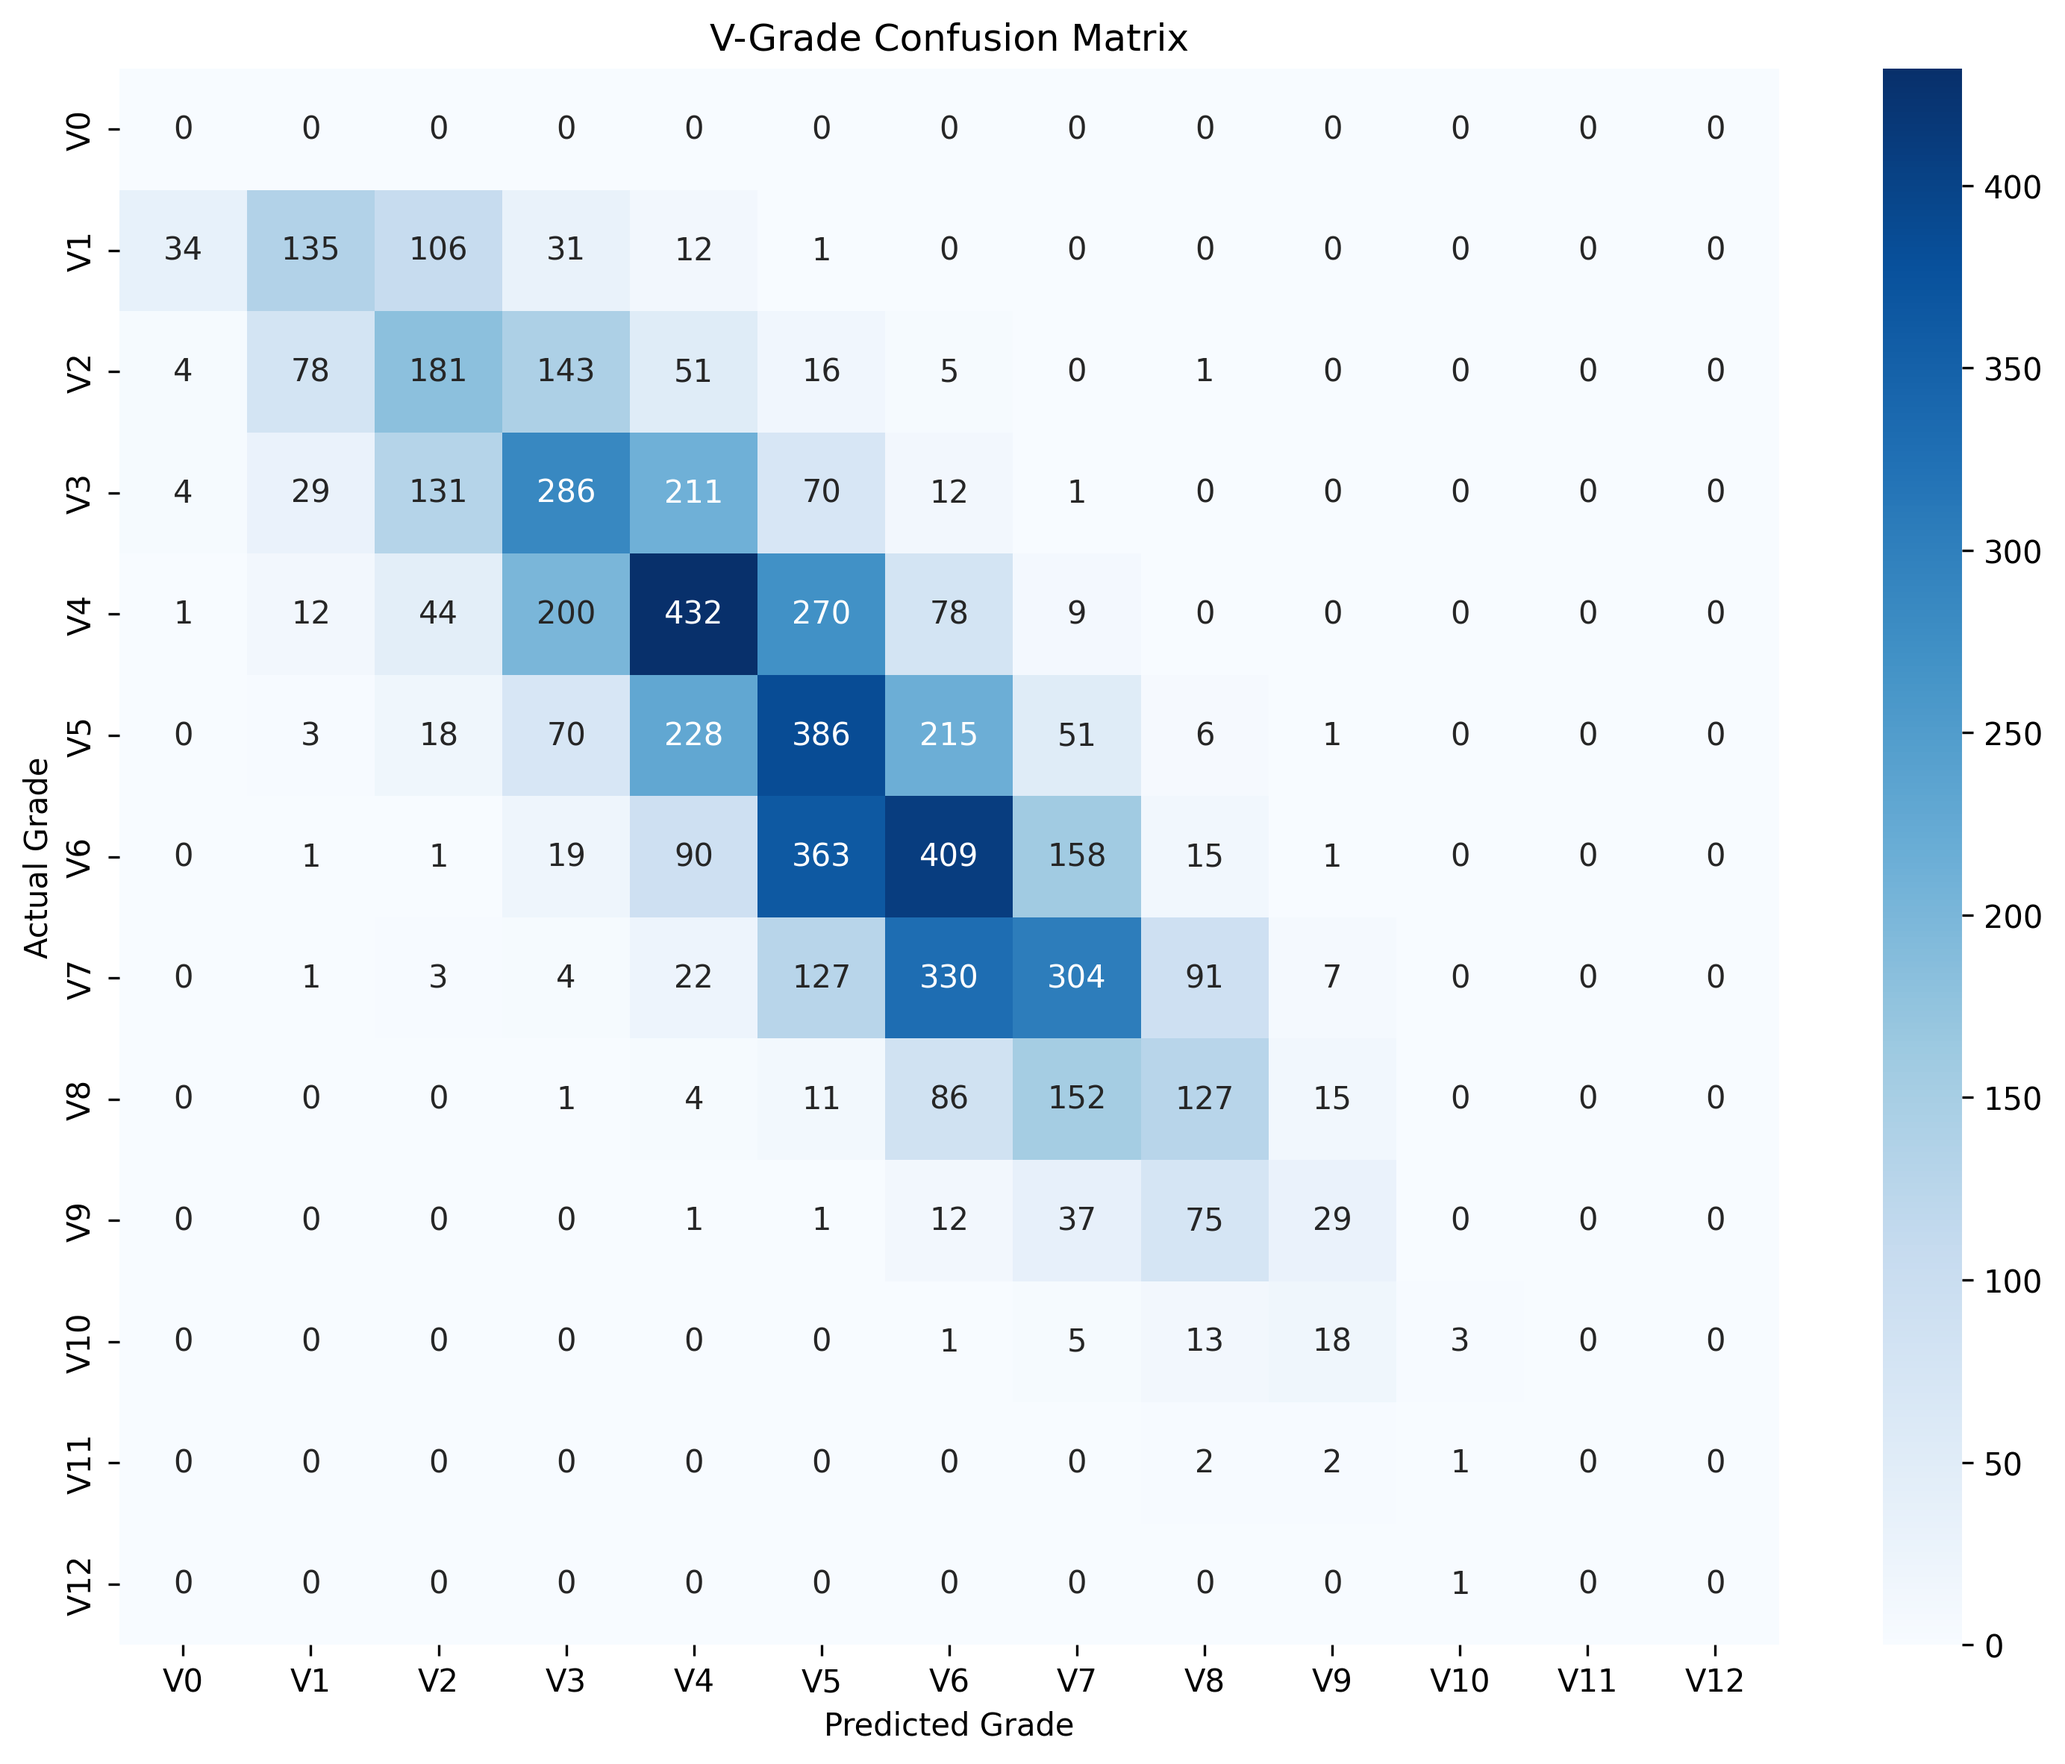
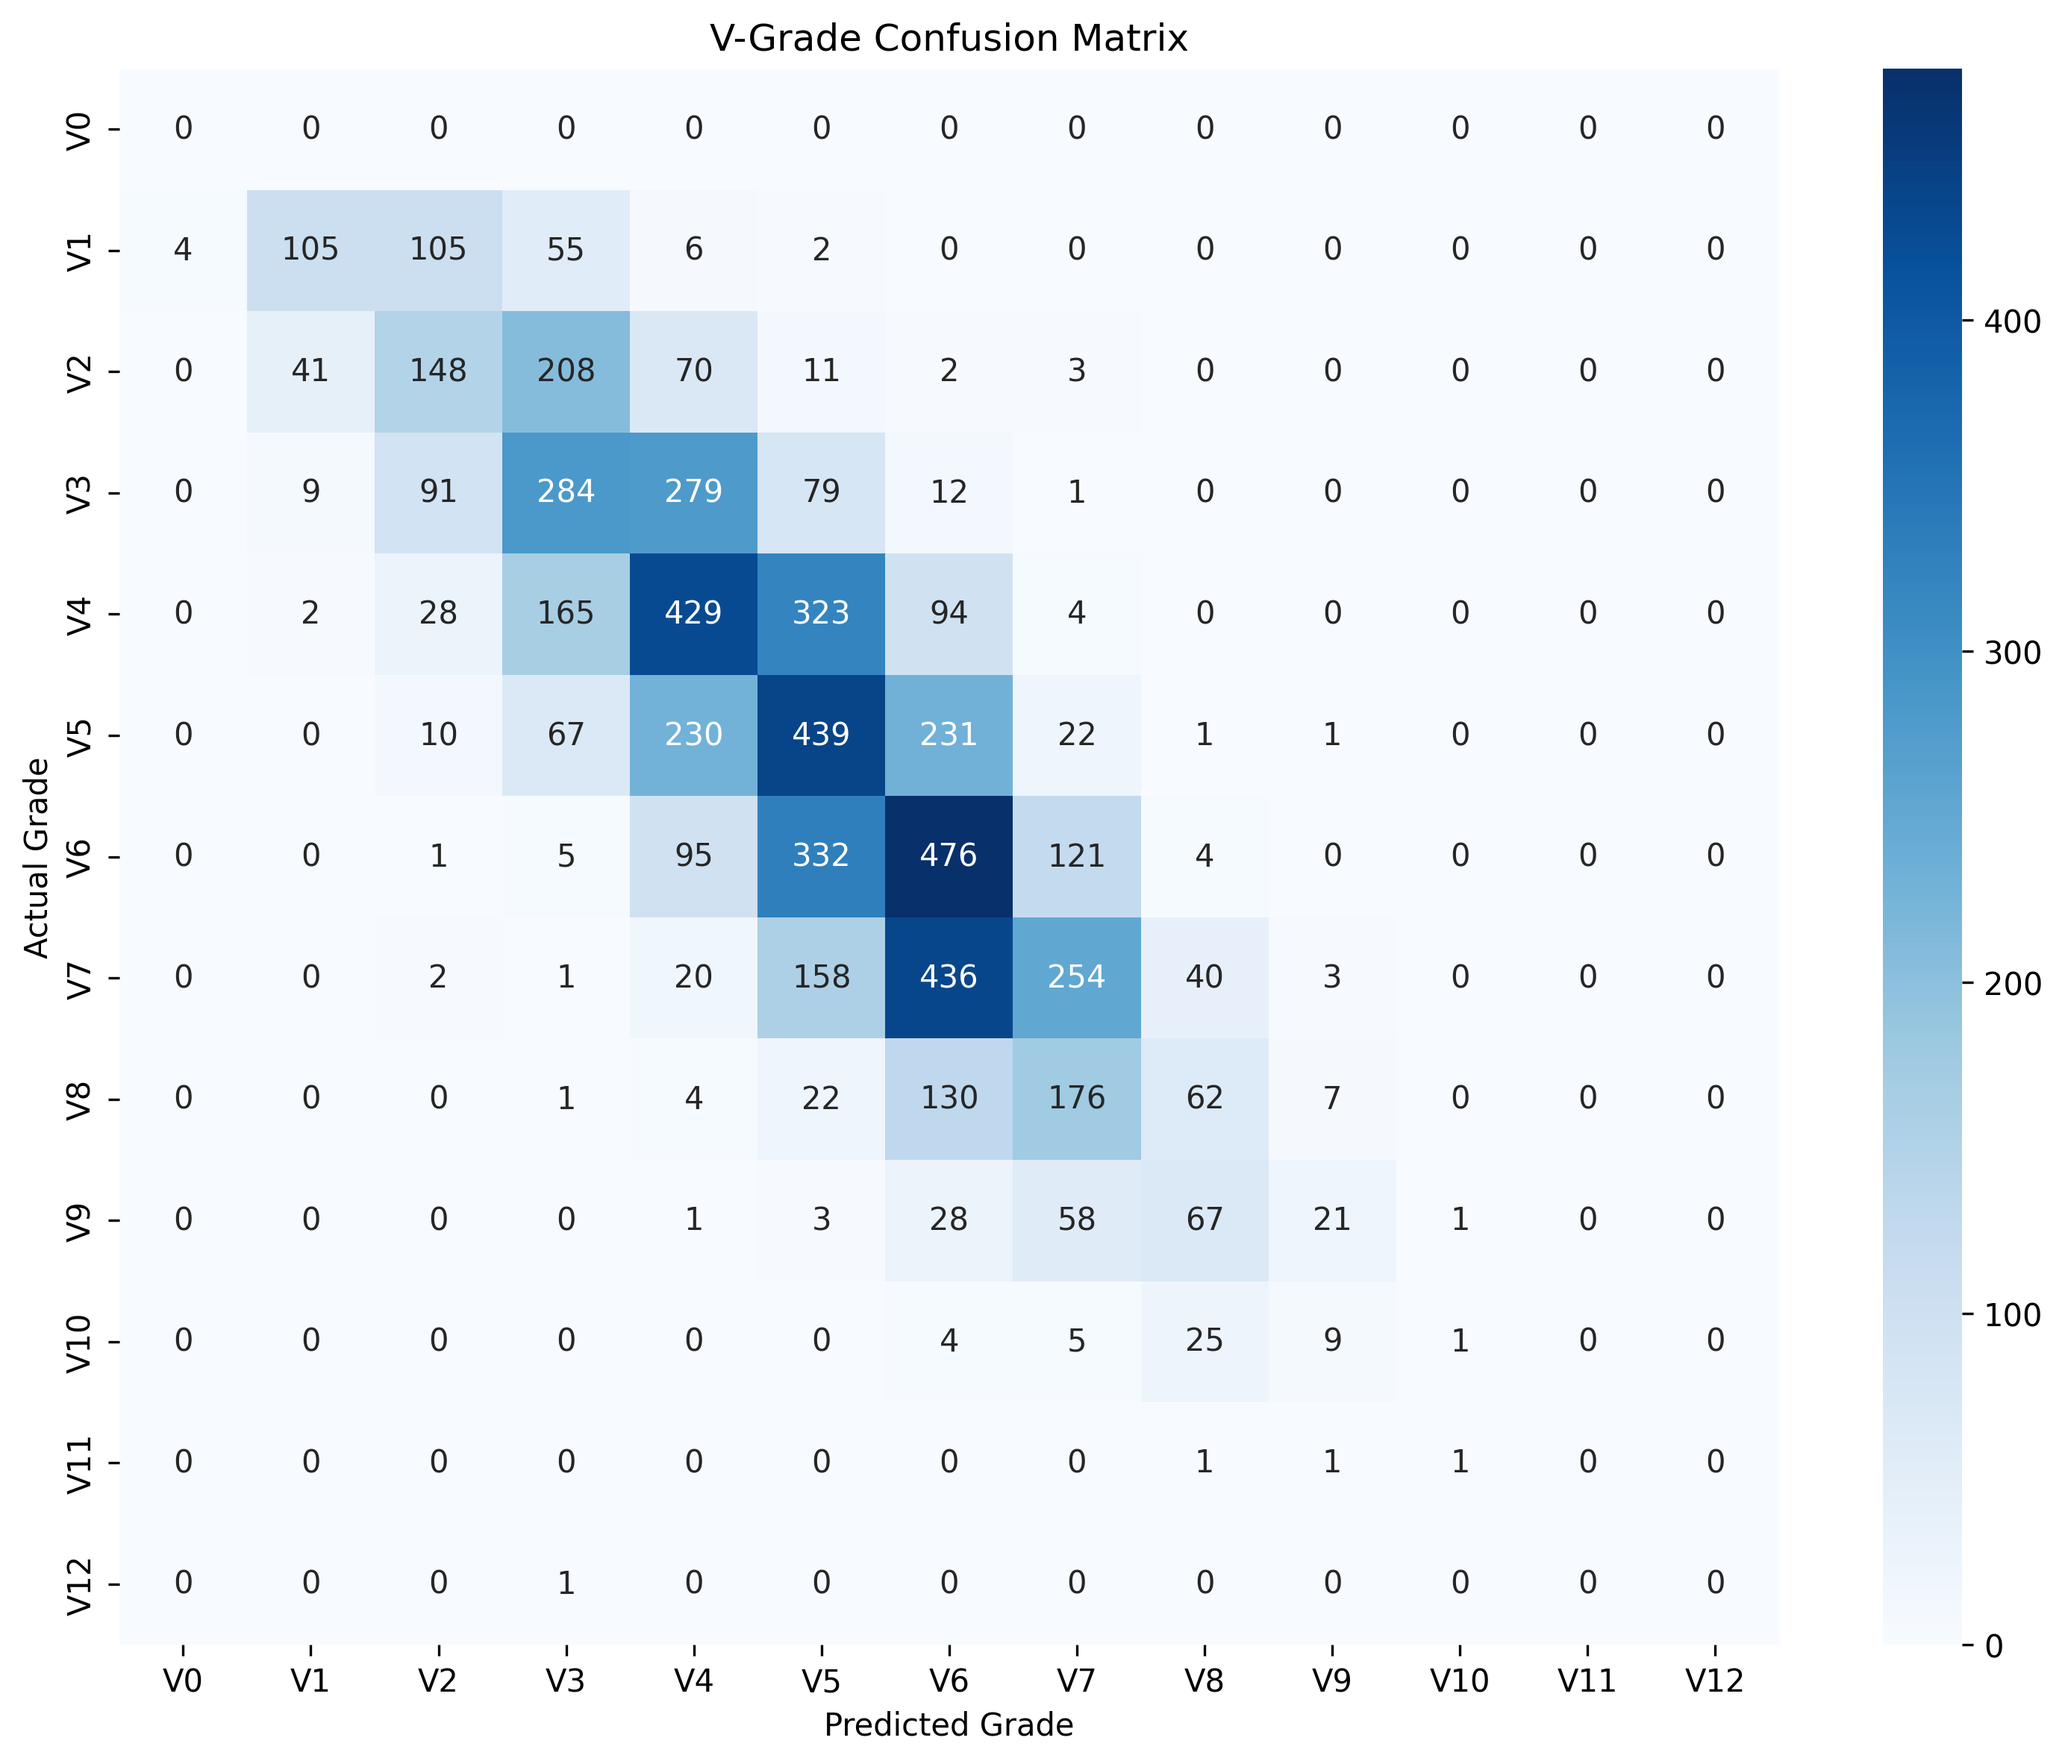
feature importance

diff --git a/src/models/feature_analysis.py b/src/models/feature_analysis.py
@@ -1,0 +1,133 @@
+#src/models/feature_analysis.py
+
+import tensorflow as tf
+import numpy as np
+import matplotlib.pyplot as plt
+import seaborn as sns
+
+def analyze_numerical_feature_importance(model, X_test_grids, X_test_features, y_test, feature_names):
+    """
+    Analyze importance of numerical features using gradient-based attribution
+    """
+    
+    # Convert to tensors
+    grid_tensor = tf.constant(X_test_grids, dtype=tf.float32)
+    feature_tensor = tf.constant(X_test_features, dtype=tf.float32)
+    
+    # Calculate gradients with respect to numerical features
+    with tf.GradientTape() as tape:
+        tape.watch(feature_tensor)
+        predictions = model([grid_tensor, feature_tensor])
+        loss = tf.reduce_mean(predictions)  # Or use your specific loss
+    
+    # Get gradients
+    gradients = tape.gradient(loss, feature_tensor)
+    
+    # Calculate importance as mean absolute gradient
+    feature_importance = tf.reduce_mean(tf.abs(gradients), axis=0)
+    
+    # Create results dictionary
+    importance_dict = {}
+    for i, name in enumerate(feature_names):
+        importance_dict[name] = float(feature_importance[i])
+    
+    return importance_dict
+
+def analyze_channel_importance(model, X_test_grids, X_test_features, y_test):
+    """
+    Analyze importance of different grid channels by zeroing them out
+    """
+    
+    channel_names = [
+        'START', 'MIDDLE', 'FINISH', 'FEET-ONLY', 
+        'orientation', 'depth', 
+        'footchip', 'jug', 'sloper', 'crimp', 'pinch'
+    ]
+    
+    # Get baseline predictions
+    baseline_preds = model.predict([X_test_grids, X_test_features])
+    baseline_mse = np.mean((baseline_preds.flatten() - y_test) ** 2)
+    
+    channel_importance = {}
+    
+    for i, channel_name in enumerate(channel_names):
+        # Create modified input with channel i zeroed out
+        modified_grids = X_test_grids.copy()
+        modified_grids[:, :, :, i] = 0  # Zero out channel i
+        
+        # Get predictions with modified input
+        modified_preds = model.predict([modified_grids, X_test_features])
+        modified_mse = np.mean((modified_preds.flatten() - y_test) ** 2)
+        
+        # Importance = performance degradation when channel is removed
+        importance = modified_mse - baseline_mse
+        channel_importance[channel_name] = importance
+        
+        print(f"Channel {channel_name}: MSE increase = {importance:.4f}")
+    
+    return channel_importance
+
+def plot_feature_importance(importance_dict, title="Feature Importance"):
+    """
+    Plot feature importance results
+    """
+    features = list(importance_dict.keys())
+    importance = list(importance_dict.values())
+    
+    plt.figure(figsize=(10, 6))
+    bars = plt.bar(features, importance)
+    plt.title(title)
+    plt.xlabel('Features')
+    plt.ylabel('Importance Score')
+    plt.xticks(rotation=45, ha='right')
+    
+    # Color bars by importance
+    colors = plt.cm.viridis(np.linspace(0, 1, len(features)))
+    for bar, color in zip(bars, colors):
+        bar.set_color(color)
+    
+    plt.tight_layout()
+    plt.show()
+    
+    return plt.gcf()
+
+def comprehensive_feature_analysis(model, X_test_grids, X_test_features, y_test):
+    """
+    Complete feature importance analysis
+    """
+    
+    # Define feature names (adjust based on your actual features)
+    numerical_features = [
+        'angle', 'hold_count', 'ascents', 'quality_average',
+        'avg_orientation', 'avg_depth', 'std_orientation', 'std_depth',
+        'start_holds', 'middle_holds', 'finish_holds', 'feet_only',
+        'footchip_count', 'jug_count', 'sloper_count', 'crimp_count', 'pinch_count'
+    ]
+    
+    print("Analyzing numerical feature importance...")
+    numerical_importance = analyze_numerical_feature_importance(
+        model, X_test_grids, X_test_features, y_test, numerical_features
+    )
+    
+    print("\nAnalyzing channel importance...")
+    channel_importance = analyze_channel_importance(
+        model, X_test_grids, X_test_features, y_test
+    )
+    
+    # Plot results
+    fig1 = plot_feature_importance(numerical_importance, "Numerical Feature Importance")
+    fig2 = plot_feature_importance(channel_importance, "Grid Channel Importance")
+    
+    # Print top features
+    print("\nTop 5 Numerical Features:")
+    sorted_numerical = sorted(numerical_importance.items(), key=lambda x: x[1], reverse=True)
+    for name, importance in sorted_numerical[:5]:
+        print(f"  {name}: {importance:.4f}")
+    
+    print("\nTop 5 Grid Channels:")
+    sorted_channels = sorted(channel_importance.items(), key=lambda x: x[1], reverse=True)
+    for name, importance in sorted_channels[:5]:
+        print(f"  {name}: {importance:.4f}")
+    
+    return numerical_importance, channel_importance
+

diff --git a/src/models/cnn_model.py b/src/models/cnn_model.py
@@ -10,10 +10,11 @@ import matplotlib.pyplot as plt
 import seaborn as sns
 from ..features.grade_conversion import difficulty_to_vgrade, vgrade_to_difficulty
 from collections import Counter
+from src.models.feature_analysis import comprehensive_feature_analysis
 
 
 def create_simple_balanced_loss(grade_counts_dict):
-    """Progressive weighting that gets more aggressive for rarer grades"""
+    """custom weighting that gets more aggressive for rarer grades"""
     
     total_samples = sum(grade_counts_dict.values())
     n_classes = len(grade_counts_dict)
@@ -454,6 +455,7 @@ def create_cnn_model(df, hold_data_df, X_train, X_test, y_train, y_test, loss_na
         decay_rate=0.95)
     optimizer = tf.keras.optimizers.Adam(learning_rate=lr_schedule)
 
+
     # Choose the loss function 
     if loss_name == "custom_loss":
         # Create custom weighted loss function
@@ -494,6 +496,11 @@ def create_cnn_model(df, hold_data_df, X_train, X_test, y_train, y_test, loss_na
         verbose=1,
         callbacks=[early_stopping]
         )
+    
+    # analyze feature importance
+    numerical_imp, channel_imp = comprehensive_feature_analysis(
+    model, test_grids, test_features, y_test
+    )
 
     # Evaluate on test set
     test_results = model.evaluate([test_grids, test_features], y_test, verbose=1)
